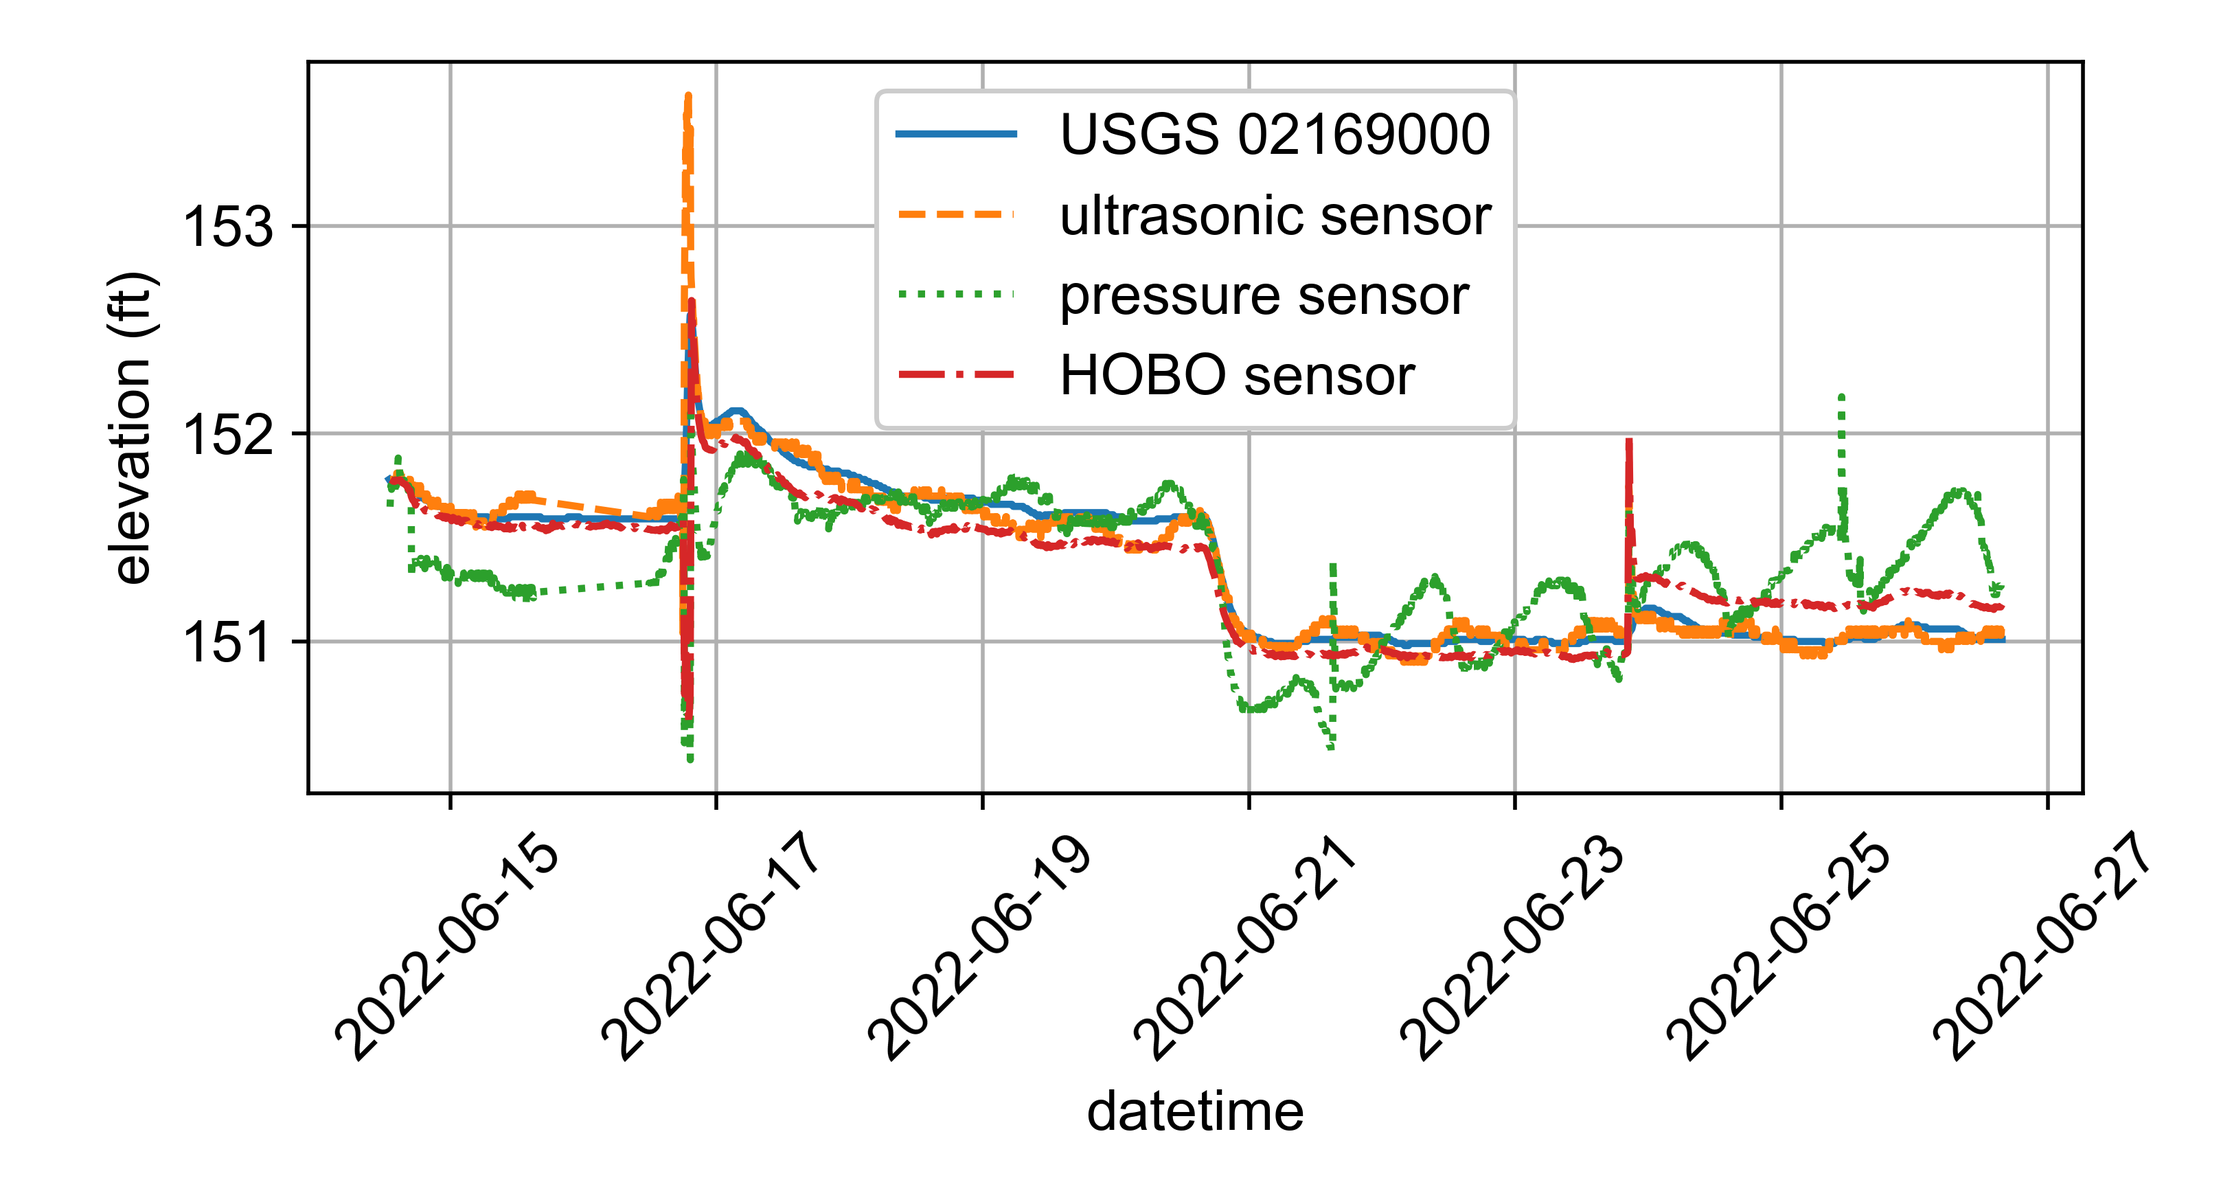
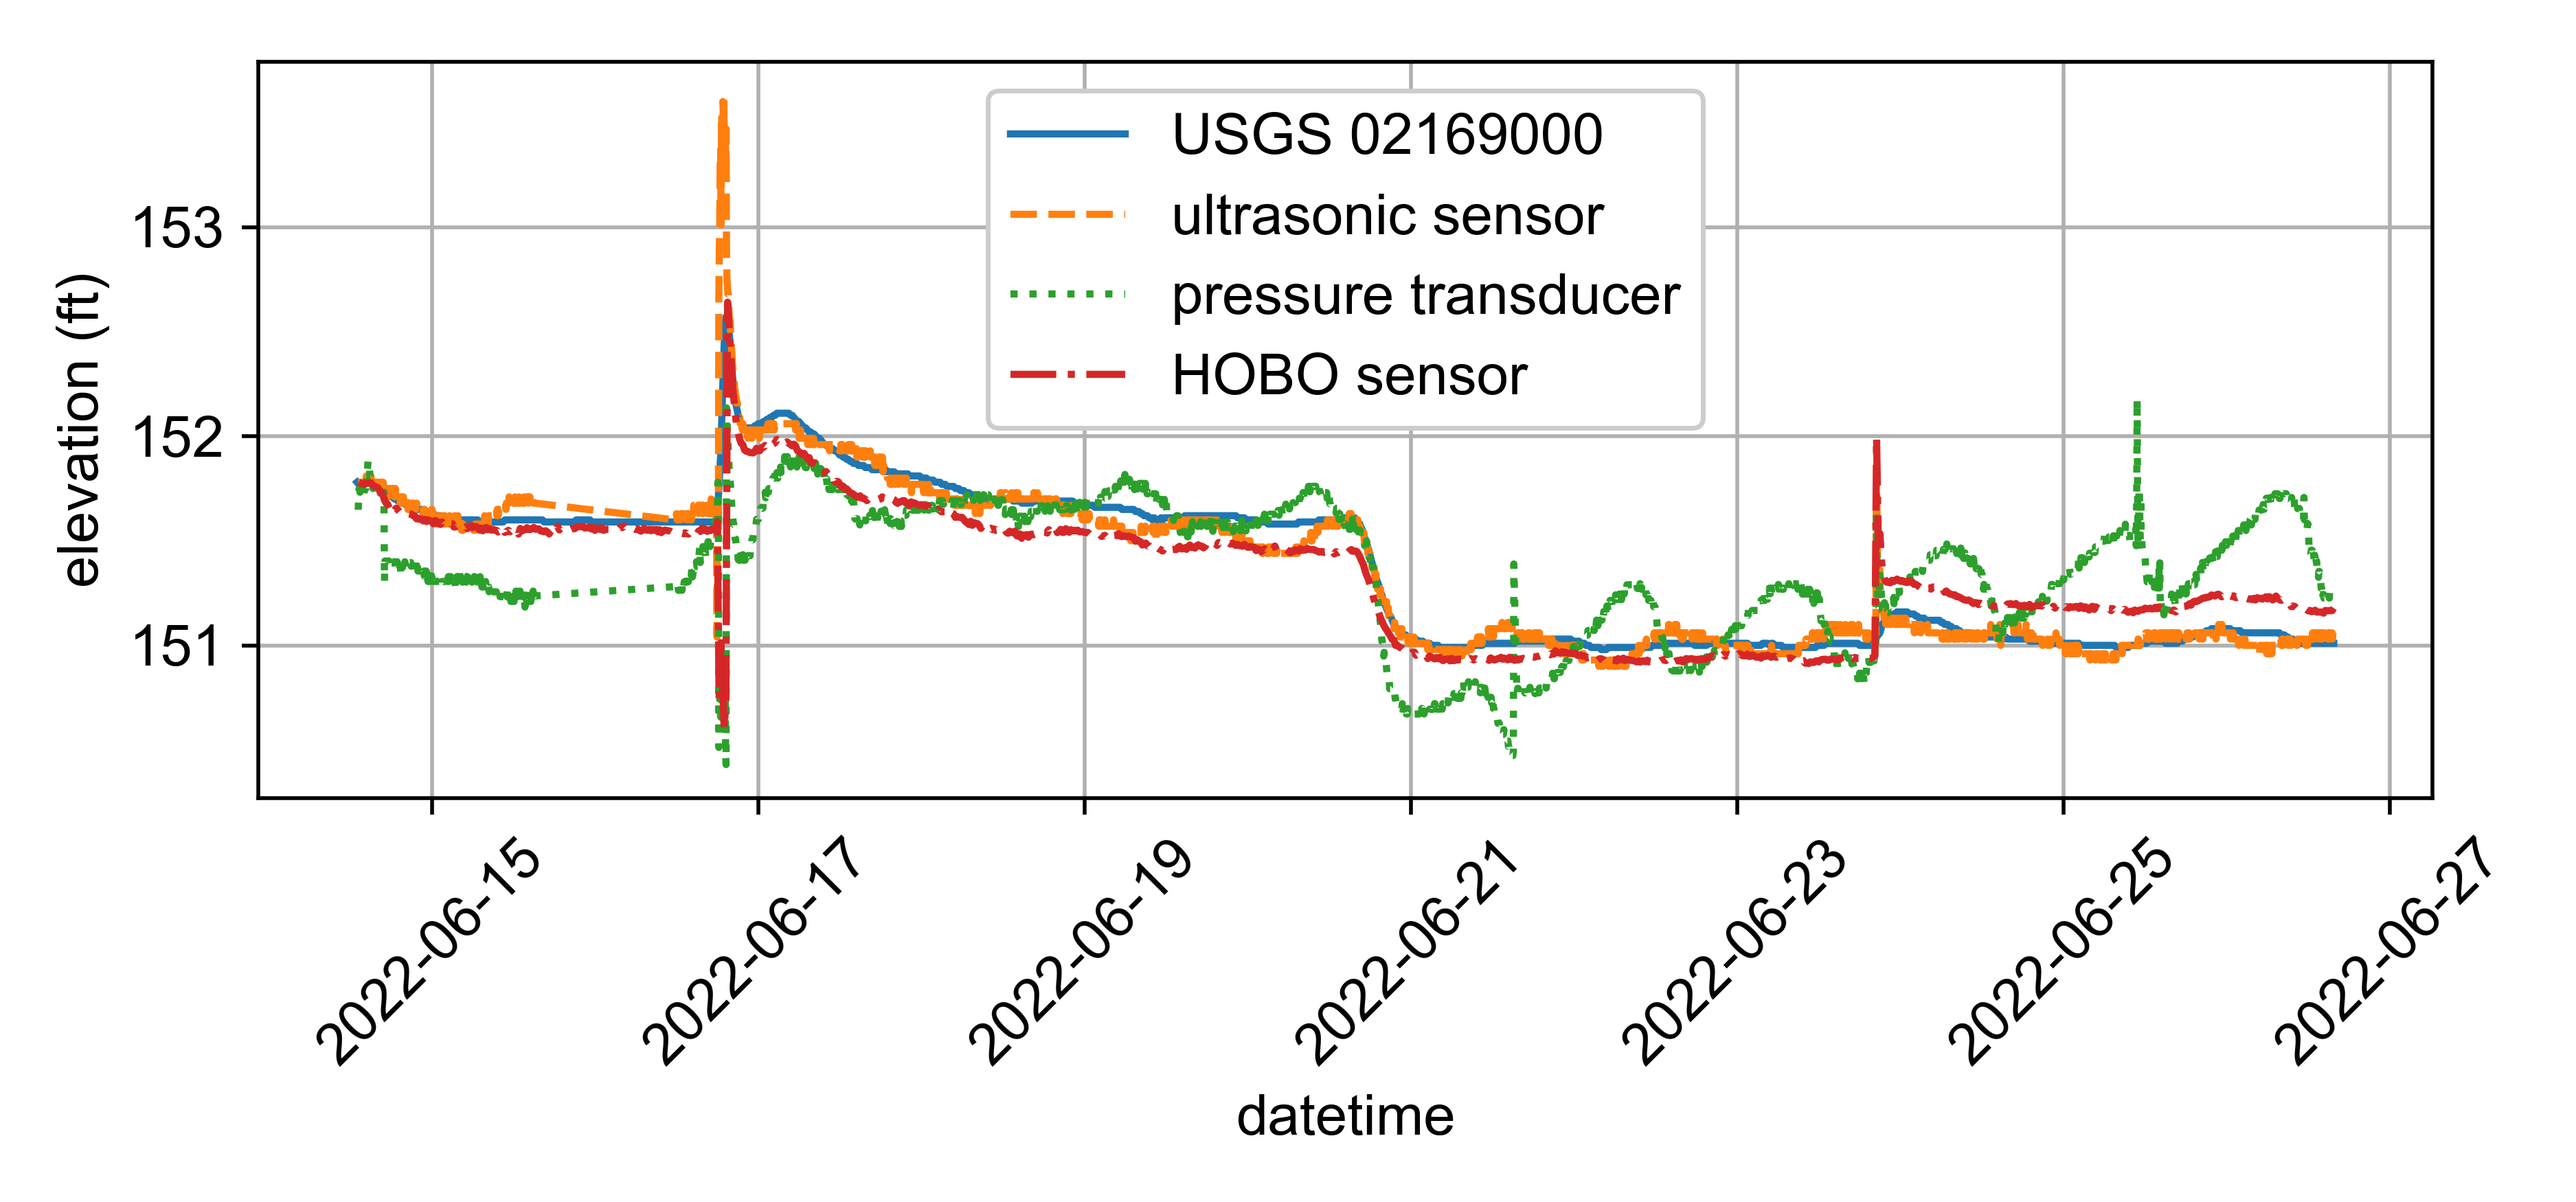
change plot size, pressure transducer label

diff --git a/field tests/06_14-06_27/plot_data.py b/field tests/06_14-06_27/plot_data.py
@@ -45,10 +45,10 @@ plt.savefig('data.png', dpi=500)
 
 #%% With manual median filter
 
-plt.figure(figsize=(6.5,4.5))
+plt.figure(figsize=(7.5,3.5))
 plt.plot(df0['Datetime'], df0['stage'], '-', label='USGS 02169000')
 plt.plot(df3['Datetime'], df3['value'], '--', label='ultrasonic sensor')
-plt.plot(df5['Datetime'], df5['elevation'], ':', label='pressure sensor')
+plt.plot(df5['Datetime'], df5['elevation'], ':', label='pressure transducer')
 plt.plot(df6['Datetime'], df6['Sensor depth with corrected elevation'], "-.", label = "HOBO sensor")
 plt.legend(framealpha=1)
 plt.xlabel('datetime')
